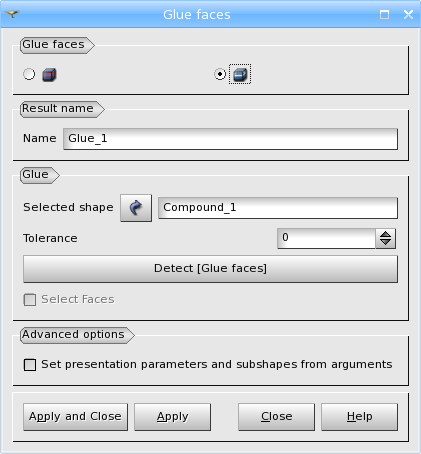
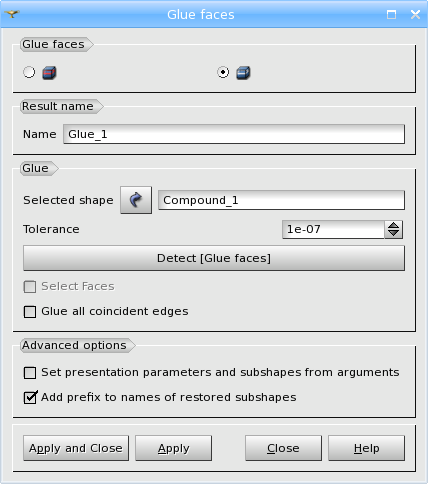
IMPs 19998 and 21191: new gluing by PKV. Add option to glue all edges in MakeGlueFacesByList (old behaviour).

Changed region(s): [[0.0, 0.0, 1.0, 0.9868]]

diff --git a/src/GEOMGUI/GEOM_msg_en.ts b/src/GEOMGUI/GEOM_msg_en.ts
@@ -4710,6 +4710,10 @@ Please close this message box and select edges for gluing</translation>
         <translation>Select Edges</translation>
     </message>
     <message>
+        <source>GLUE_ALL_EDGES</source>
+        <translation>Glue all coincident edges</translation>
+    </message>
+    <message>
         <source>THERE_ARE_NO_FACES_FOR_GLUING</source>
         <translation>There are no faces for gluing</translation>
     </message>

diff --git a/src/GEOM_SWIG/geompyDC.py b/src/GEOM_SWIG/geompyDC.py
@@ -2571,13 +2571,18 @@ class geompyDC(GEOM._objref_GEOM_Gen):
         #  @param theFaces List of faces for gluing.
         #  @param doKeepNonSolids If FALSE, only solids will present in the result,
         #                         otherwise all initial shapes.
+        #  @param doGlueAllEdges If TRUE, all coincident edges of <VAR>theShape</VAR>
+        #                        will be glued, otherwise only the edges,
+        #                        belonging to <VAR>theFaces</VAR>.
         #  @return New GEOM_Object, containing a copy of theShape
         #          without some faces.
         #
         #  @ref swig_todo "Example"
-        def MakeGlueFacesByList(self, theShape, theTolerance, theFaces, doKeepNonSolids=True):
+        def MakeGlueFacesByList(self, theShape, theTolerance, theFaces,
+                                doKeepNonSolids=True, doGlueAllEdges=True):
             # Example: see GEOM_Spanner.py
-            anObj = self.ShapesOp.MakeGlueFacesByList(theShape, theTolerance, theFaces, doKeepNonSolids)
+            anObj = self.ShapesOp.MakeGlueFacesByList(theShape, theTolerance, theFaces,
+                                                      doKeepNonSolids, doGlueAllEdges)
             if anObj is None:
                 raise RuntimeError, "MakeGlueFacesByList : " + self.ShapesOp.GetErrorCode()
             return anObj

diff --git a/src/GEOM_I_Superv/GEOM_Superv_i.cc b/src/GEOM_I_Superv/GEOM_Superv_i.cc
@@ -2182,13 +2182,15 @@ GEOM::GEOM_List_ptr GEOM_Superv_i::GetGlueFaces (GEOM::GEOM_Object_ptr theShape,
 GEOM::GEOM_Object_ptr GEOM_Superv_i::MakeGlueFacesByList (GEOM::GEOM_Object_ptr theShape,
                                                           CORBA::Double theTolerance,
                                                           const GEOM::ListOfGO& theFaces,
-                                                          CORBA::Boolean doKeepNonSolids)
+                                                          CORBA::Boolean doKeepNonSolids,
+                                                          CORBA::Boolean doGlueAllEdges)
 {
   beginService( " GEOM_Superv_i::MakeGlueFacesByList" );
   MESSAGE("GEOM_Superv_i::MakeGlueFacesByList");
   getShapesOp();
   GEOM::GEOM_Object_ptr anObj =
-    myShapesOp->MakeGlueFacesByList(theShape, theTolerance, theFaces, doKeepNonSolids);
+    myShapesOp->MakeGlueFacesByList(theShape, theTolerance, theFaces,
+                                    doKeepNonSolids, doGlueAllEdges);
   endService( " GEOM_Superv_i::MakeGlueFacesByList" );
   return anObj;
 }

diff --git a/src/GEOM_I/GEOM_IShapesOperations_i.cc b/src/GEOM_I/GEOM_IShapesOperations_i.cc
@@ -442,7 +442,8 @@ GEOM::GEOM_Object_ptr GEOM_IShapesOperations_i::MakeGlueFacesByList
                                            (GEOM::GEOM_Object_ptr theShape,
                                             CORBA::Double   theTolerance,
                                             const GEOM::ListOfGO& theFaces,
-                                            CORBA::Boolean  doKeepNonSolids)
+                                            CORBA::Boolean doKeepNonSolids,
+                                            CORBA::Boolean doGlueAllEdges)
 {
   GEOM::GEOM_Object_var aGEOMObject;
 
@@ -465,7 +466,7 @@ GEOM::GEOM_Object_ptr GEOM_IShapesOperations_i::MakeGlueFacesByList
 
   //Perform the gluing
   Handle(GEOM_Object) anObject =
-    GetOperations()->MakeGlueFacesByList(aShape, theTolerance, aFaces, doKeepNonSolids);
+    GetOperations()->MakeGlueFacesByList(aShape, theTolerance, aFaces, doKeepNonSolids, doGlueAllEdges);
   //if (!GetOperations()->IsDone() || anObject.IsNull())
   // to allow warning
   if (anObject.IsNull())

diff --git a/src/RepairGUI/RepairGUI_GlueDlg.h b/src/RepairGUI/RepairGUI_GlueDlg.h
@@ -81,6 +81,7 @@ private:
   SalomeApp_DoubleSpinBox*           myTolEdt2;
   QPushButton*                       myDetectBtn;
   QCheckBox*                         mySubShapesChk;
+  QCheckBox*                         myGlueAllEdgesChk;
 
   int                                myCurrConstrId;
 
